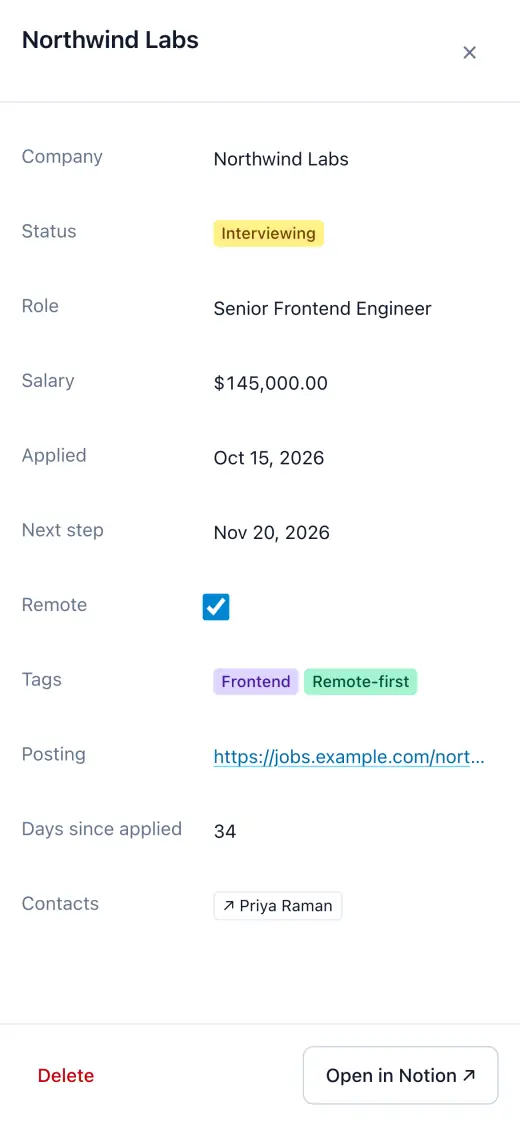
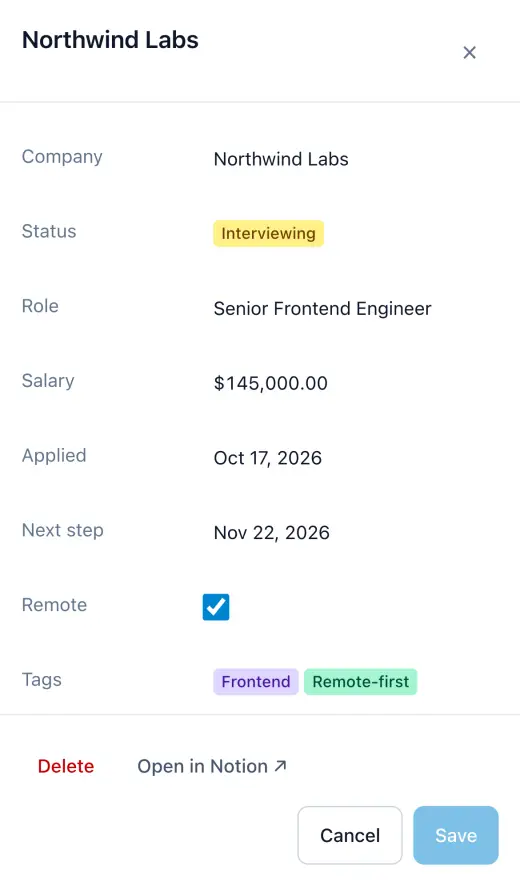
Release v1.1.0

diff --git a/README.md b/README.md
@@ -30,7 +30,7 @@ Notion's free plan allows one chart. LensIQ keeps Notion as the data store and a
 
 ## Features
 
-- **Edit Notion from LensIQ.** Change cells inline (or in a row panel on a phone), add rows, delete rows to Notion's trash, and create new select options as you type.
+- **Edit Notion from LensIQ.** Change cells inline, or in a row panel (with Save and Cancel) on a phone, add rows, delete rows to Notion's trash, and create new select options as you type.
 - **No silent overwrites.** Before every write, the API re-reads the page; if that cell changed in Notion meanwhile, you pick which value to keep.
 - **Notion-style views.** Table, board, chart and calendar tabs on each database, each with its own filters (and/or), sorts and settings.
 - **Dashboards.** Any number of pages mixing views from any databases, in a grid that stacks to one column on a phone.
@@ -38,7 +38,7 @@ Notion's free plan allows one chart. LensIQ keeps Notion as the data store and a
 - **Installable.** Add it to the iPhone home screen as an app.
 - **Backups.** Export and import every view and dashboard as JSON.
 
-> **Status: v1.0.0, released 2026-11-18.** Everything above is built, tested and running. See the [changelog](CHANGELOG.md) and the [issues](https://github.com/BobbyJoeCool/LensIQ/issues).
+> **Status: v1.1.0, released 2026-11-20.** Everything above is built, tested and running. See the [changelog](CHANGELOG.md) and the [issues](https://github.com/BobbyJoeCool/LensIQ/issues).
 
 ## How it works
 
@@ -59,7 +59,7 @@ flowchart LR
 - **Charts.** Bar (vertical, horizontal, stacked), line, area (with running totals), donut and number tiles; count, sum, average, min or max; dates grouped by day, week, month or year; split by a select. Colors come from an eight-slot palette checked for color-vision deficiency in light and dark mode, and each Notion option keeps its own color. Every chart has a "Show data" table.
 - **Relations and files.** Relation columns show linked page titles (read from the related database on each full sync, about one request per 100 pages) and edit with a searchable picker. Notion-hosted file links expire after an hour, so file links go through the API, which reads the page again and redirects to a fresh URL.
 - **Calendar.** Rows on a month grid by any date column; drag a row to another day (ranges keep their length), or "+" to add a row on a day. On a phone it's an agenda list.
-- **Dashboards.** Any number of named pages, each a grid of views from any databases (a third, half, two thirds or full width), stacking to one column on a phone.
+- **Dashboards.** Any number of named pages, each a grid of views from any databases (a third, half, two thirds or full width; short, standard or tall), stacking to one column on a phone.
 - **Rate limit.** Every Notion request goes through one limiter that spaces requests about 400 ms apart (≈2.5/s, under Notion's 3/s average). The Notion SDK retries 429 responses, honoring `Retry-After`.
 - Every `/api` request must carry a valid Cloudflare Access JWT, so the app can't be reached by going around Cloudflare.
 - **The public demo** is the same React app built with `VITE_DEMO=1`: a small in-browser server (`web/src/demo/`) answers its `/api` calls from fictional sample data, so it needs no Notion token or backend and is published to GitHub Pages by a workflow on every push to `main`. The demo code isn't in the normal build.
@@ -130,13 +130,14 @@ npm run build:demo   # static demo in web/dist-demo
 | `POST` | `/api/databases/:id/refresh` | Full reload from Notion |
 | `POST` | `/api/databases/:id/rows` | Create a row: `{ "cells": { "<columnId>": <cell value> } }` |
 | `PATCH` | `/api/databases/:id/rows/:pageId` | Set one cell: `{ columnId, value, expected, force? }`. Answers `409` with Notion's current value if that cell changed since `expected`. |
+| `PATCH` | `/api/databases/:id/rows/:pageId/cells` | Save several cells at once (the row panel's Save): `{ changes: [{ columnId, value, expected }], force? }`. All or nothing: answers `409` with every conflicting property (`conflicts`) and writes nothing if any changed in Notion. |
 | `DELETE` | `/api/databases/:id/rows/:pageId` | Move a row to Notion's trash |
 | `GET` | `/api/databases/:id/relations/:columnId` | Titles of a relation column's related pages: `{ available, options: [{ id, title }] }` |
 | `GET` | `/api/databases/:id/rows/:pageId/files/:columnId/:index` | Redirects to a freshly signed URL for a Notion-hosted file |
 | `GET` | `/api/views?databaseId=` | Views of a database in tab order (a default Table view is created the first time), or every view |
 | `POST` / `PATCH` / `DELETE` | `/api/views`, `/api/views/:id` | Create a view (`databaseId`, `name`, `type`, optional `config`); change its name, settings or tab position; delete it (and its dashboard tiles) |
 | `GET` / `POST` | `/api/dashboards` | List or create dashboards |
-| `GET` / `PATCH` / `DELETE` | `/api/dashboards/:id` | One dashboard; rename it or replace its tiles (`{ viewId, size }` in order); delete it |
+| `GET` / `PATCH` / `DELETE` | `/api/dashboards/:id` | One dashboard; rename it or replace its tiles (`{ viewId, size, height }` in order); delete it |
 | `GET` | `/api/export` | Every view and dashboard as one JSON file |
 | `POST` | `/api/import` | Add the views and dashboards from an export (databases matched by Notion ID; others skipped) |
 

diff --git a/CHANGELOG.md b/CHANGELOG.md
@@ -2,6 +2,21 @@
 
 All notable changes to LensIQ are listed here. Versions follow [Semantic Versioning](https://semver.org/). Work before v1.0.0 is tracked in the [GitHub issues](https://github.com/BobbyJoeCool/LensIQ/issues?q=is%3Aissue+Phase).
 
+## [1.1.0] - 2026-11-20
+
+### Added
+
+- Dashboard tiles have a height: **Short (½)**, **Standard** or **Tall (2×)**, next to the width setting. Two short tiles stack beside a standard one, and a later tile that fits moves up into an empty space. On a phone, tiles still size to their content. ([#54](https://github.com/BobbyJoeCool/LensIQ/issues/54))
+
+### Changed
+
+- The row panel holds your edits until you press **Save**, then sends them to Notion together. **Cancel**, ×, Escape or tapping outside with unsaved edits asks whether to save, discard or keep editing. If a property was changed in Notion in the meantime, nothing is saved and you choose whose values to keep. Inline table edits and board drags still save immediately. ([#57](https://github.com/BobbyJoeCool/LensIQ/issues/57))
+
+### Fixed
+
+- In the iPhone home-screen app, the row panel's × sat under the status bar, so the panel couldn't be closed. The panel now stays clear of the status bar and the home indicator. ([#57](https://github.com/BobbyJoeCool/LensIQ/issues/57))
+- On a dashboard, a board (or table, chart or calendar) next to a taller tile now fills its tile instead of stopping partway down. ([#54](https://github.com/BobbyJoeCool/LensIQ/issues/54))
+
 ## [1.0.0] - 2026-11-18
 
 First release. LensIQ is a self-hosted app that adds tables, boards, charts, calendars and dashboards on top of Notion databases, and writes every edit back to Notion.
